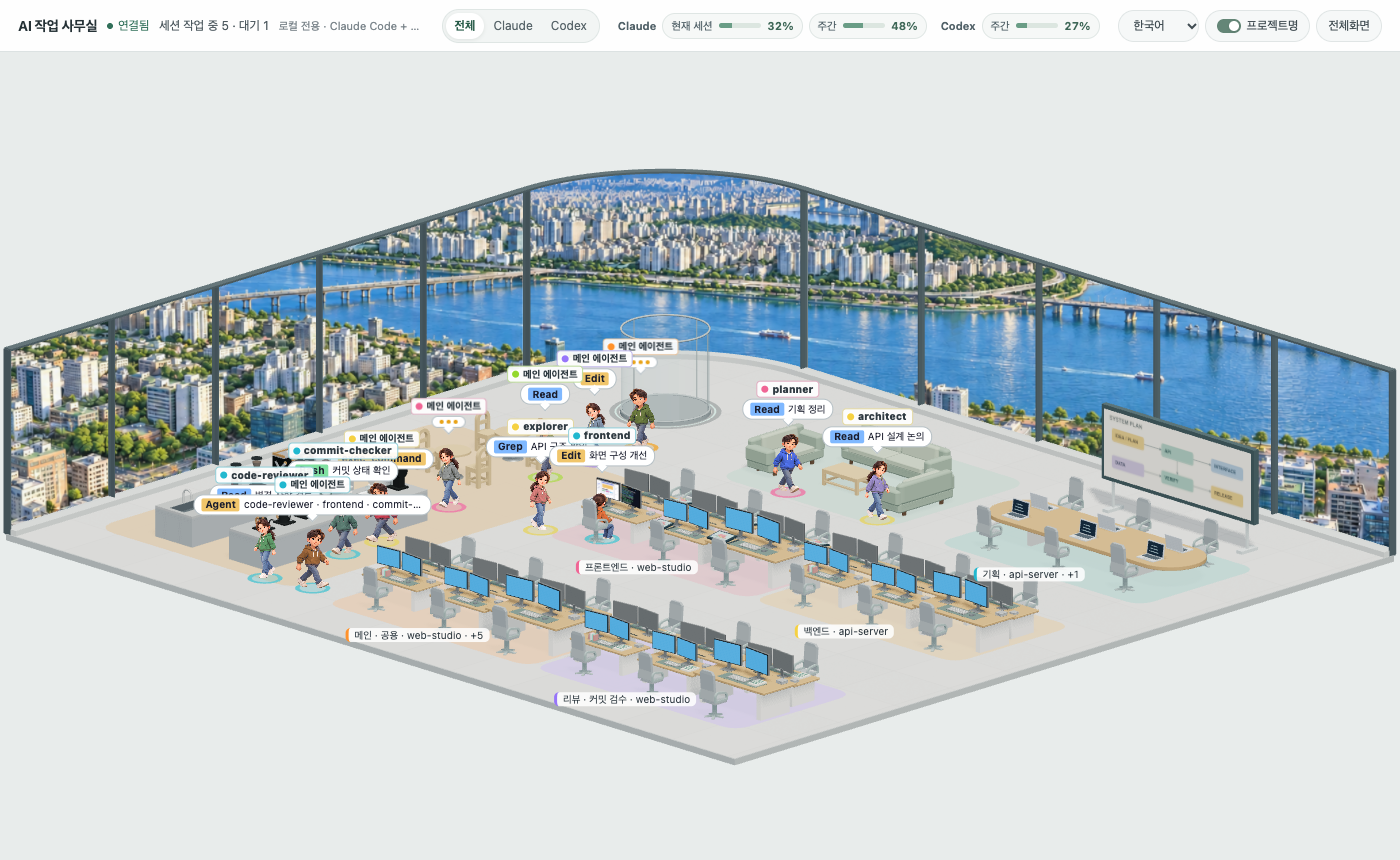
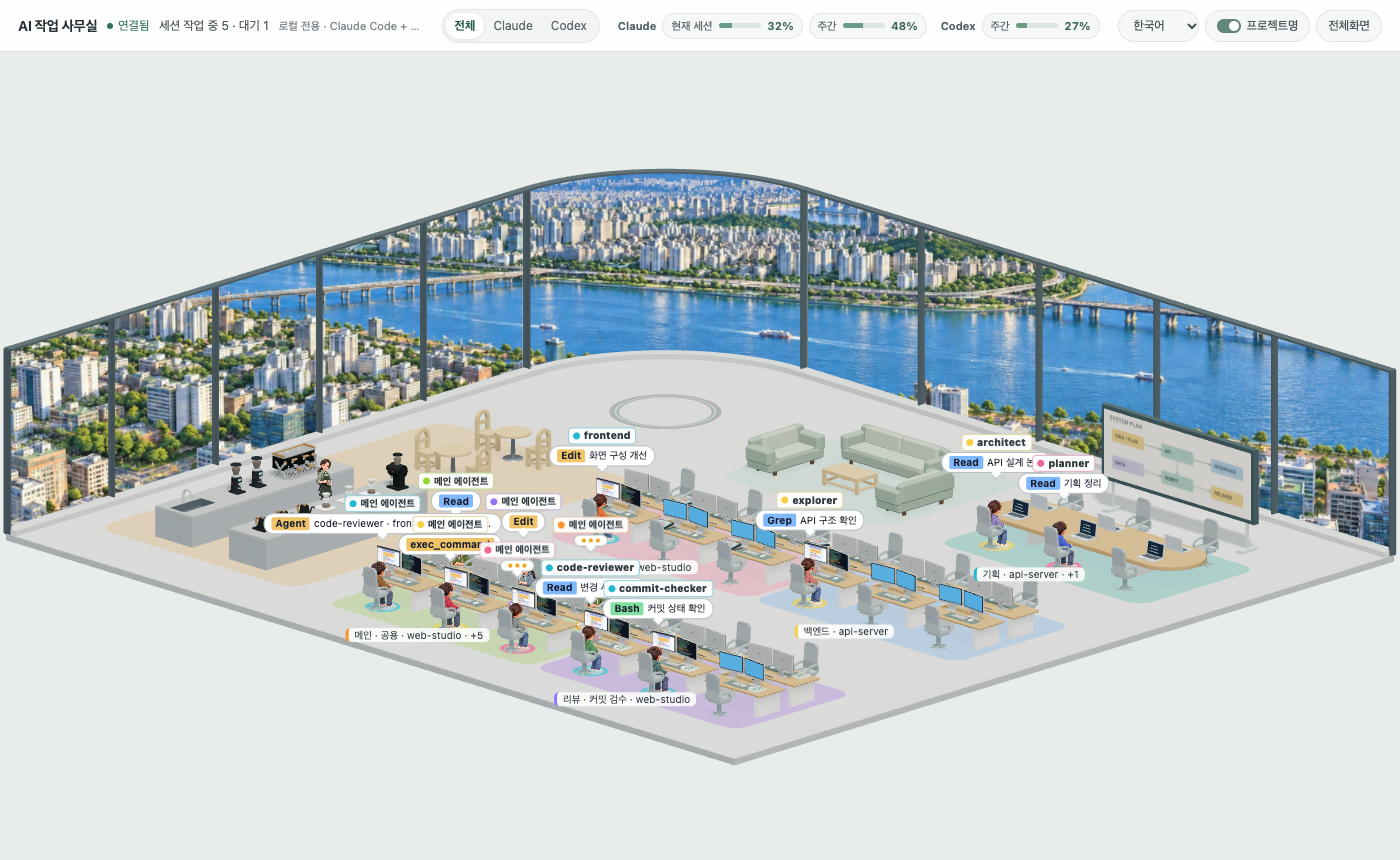
Update office workstations and area colors

Changed region(s): [[0.1229, 0.3628, 0.7986, 0.8465], [0.4914, 0.3628, 0.5221, 0.393]]

diff --git a/src/agent-office/scene.ts b/src/agent-office/scene.ts
@@ -18,6 +18,7 @@ import {
   Color,
   DirectionalLight,
   DoubleSide,
+  ExtrudeGeometry,
   Group,
   HemisphereLight,
   InstancedMesh,
@@ -42,6 +43,7 @@ import {
   Scene,
   Shape,
   ShapeGeometry,
+  SphereGeometry,
   Texture,
   TorusGeometry,
   TubeGeometry,
@@ -124,11 +126,11 @@ type ClipName = 'idle' | 'walk' | 'sit' | 'work' | 'read' | 'wait' | 'coffee'
 
 const READ_TOOLS = new Set(['Read', 'Grep', 'Glob', 'NotebookRead', 'LS'])
 /** 모니터 몸체는 검정 대신 밝은 은색. 빈자리 화면은 모든 자리가 같은 파란색으로 켜져 있다 */
-const MONITOR_BODY = '#c9d1d6'
+const MONITOR_BODY = '#e7e9e9'
 const SCREEN_IDLE_COLOR = '#2f8fe0'
 const SCREEN_IDLE_GLOW = 0.55
 /** Studio Display 스타일 화면의 로컬 좌표. 본체 앞(+z)에 콘텐츠를 붙인다. */
-const SCREEN_FACE = { x0: -0.1895, x1: 0.1895, yBottom: 0.095, zBottom: 0.018, yTop: 0.3264, zTop: 0.018 }
+const SCREEN_FACE = { x0: -0.1895, x1: 0.1895, yBottom: 0.121, zBottom: 0.018, yTop: 0.3264, zTop: 0.018 }
 /** 터미널 텍스처: 한 줄 높이(px)·줄 수. 자리마다 보이는 창을 아래로 옮겨 스크롤한다 */
 const TERM_LINE = 14
 const TERM_LINES = 60
@@ -151,7 +153,7 @@ const NO_SHADOW = new Set(['rugRound', 'rugDoormat'])
 const SOFA_COLOR = new Color('#9cae9f')
 /** 천 소파라 거의 무광 */
 const SOFA_ROUGHNESS = 0.85
-const TEAM_FLOORS = ['#c3d8d4', '#e1d3bc', '#dfc9cd', '#cedcc3', '#d4cde5', '#e5cfba']
+const TEAM_FLOORS = ['#aaceca', '#b8cde0', '#e4bdc5', '#cedcc3', '#c8b8dc', '#c6d6ae']
 /** 램프 불빛 색과 한밤 세기 */
 const LAMP_GLOW = '#ffbf73'
 const LAMP_POWER = 2.2
@@ -814,10 +816,11 @@ export class OfficeScene {
   private chairMats = new Map<number, MeshStandardMaterial>()
   /** 자동 배정한 종류별 옷 색(clothesColorOf) */
   private typeColors = new Map<string, string>()
-  /** 모니터 몸체 재질. 모든 모니터가 같은 색이라 하나를 나눠 쓴다 */
+  /** 일체형 컴퓨터는 실버 본체 재질을 공유한다. */
   private monitorBody: MeshStandardMaterial | null = null
   private deskTemplate: Group | null = null
   private keyboardTemplate: Group | null = null
+  private mouseTemplate: Group | null = null
   private displayTemplates = new Map<boolean, Group>()
   private staticFurniture: Mesh[] = []
   /** 창문 안에서 이어지는 서울 강변 파노라마 */
@@ -1804,6 +1807,19 @@ export class OfficeScene {
     return root
   }
 
+  /** Low, smooth white mouse with a thin silver underside. */
+  private modernMouse() {
+    const group = new Group()
+    const shell = new Mesh(new SphereGeometry(1, 24, 16), new MeshStandardMaterial({ color: '#f9faf9', roughness: 0.27 }))
+    shell.scale.set(0.034, 0.012, 0.057)
+    shell.position.y = 0.014
+    const base = new Mesh(new SphereGeometry(1, 24, 12), new MeshStandardMaterial({ color: '#cdd3d4', metalness: 0.35, roughness: 0.45 }))
+    base.scale.set(0.031, 0.003, 0.052)
+    base.position.y = 0.003
+    group.add(base, shell)
+    return group
+  }
+
   private cafeRoundTable() {
     const group = new Group()
     const oak = new MeshStandardMaterial({ color: '#d8bc91', roughness: 0.65 })
@@ -1820,7 +1836,7 @@ export class OfficeScene {
 
   private studioDisplay() {
     const group = new Group()
-    const aluminum = new MeshStandardMaterial({ name: 'metalDark', color: MONITOR_BODY, metalness: 0.65, roughness: 0.28 })
+    const aluminum = new MeshStandardMaterial({ name: 'metalDark', color: MONITOR_BODY, metalness: 0.35, roughness: 0.38 })
     const bezel = new MeshStandardMaterial({ color: '#23282c', roughness: 0.4 })
     const idle = new MeshStandardMaterial({ name: 'metal', color: SCREEN_IDLE_COLOR })
     const box = (w: number, h: number, d: number, mat: Material, x: number, y: number, z: number) => {
@@ -1828,19 +1844,38 @@ export class OfficeScene {
       mesh.position.set(x, y, z)
       group.add(mesh)
     }
-    // A uniform black bezel replaces the all-in-one's deep silver chin.
+    // Silver all-in-one body with a slim lower chin.
     box(0.399, 0.251, 0.022, aluminum, 0, 0.2107, 0)
-    box(0.393, 0.245, 0.004, bezel, 0, 0.2107, 0.014)
-    // A slim aluminum support slopes gently into a low, rounded rectangular foot.
-    const support = new Mesh(new RoundedBoxGeometry(0.052, 0.105, 0.009, 3, 0.004), aluminum)
-    support.position.set(0, 0.057, -0.018)
-    support.rotation.x = -0.12
+    box(0.393, 0.219, 0.004, bezel, 0, 0.2237, 0.014)
+    // Subtle rear panel, centered emblem and stand hinge add depth from behind.
+    const back = new MeshStandardMaterial({ color: '#dce0e1', metalness: 0.3, roughness: 0.42 })
+    const detail = new MeshStandardMaterial({ color: '#afb8bb', metalness: 0.45, roughness: 0.35 })
+    box(0.384, 0.236, 0.002, back, 0, 0.2107, -0.012)
+    const emblem = new Mesh(new CircleGeometry(0.012, 24), detail)
+    emblem.position.set(0, 0.22, -0.0135)
+    emblem.rotation.y = Math.PI
+    group.add(emblem)
+    const hinge = new Mesh(new RoundedBoxGeometry(0.075, 0.022, 0.008, 3, 0.003), detail)
+    hinge.position.set(0, 0.109, -0.018)
+    group.add(hinge)
+    // The all-in-one stand widens toward its low, flat aluminum base.
+    const standShape = new Shape()
+    standShape.moveTo(-0.06, 0)
+    standShape.lineTo(0.06, 0)
+    standShape.lineTo(0.038, 0.12)
+    standShape.lineTo(-0.038, 0.12)
+    standShape.closePath()
+    const support = new Mesh(new ExtrudeGeometry(standShape, {
+      depth: 0.008, bevelEnabled: true, bevelSize: 0.002, bevelThickness: 0.002, bevelSegments: 2,
+    }), aluminum)
+    support.position.set(0, 0.006, -0.028)
+    support.rotation.x = -0.14
     group.add(support)
-    const foot = new Mesh(new RoundedBoxGeometry(0.15, 0.006, 0.125, 3, 0.003), aluminum)
-    foot.position.set(0, 0.003, 0.004)
+    const foot = new Mesh(new RoundedBoxGeometry(0.16, 0.006, 0.105, 3, 0.003), aluminum)
+    foot.position.set(0, 0.003, 0)
     group.add(foot)
-    const face = new PlaneGeometry(0.379, 0.2314)
-    face.translate(0, 0.2107, 0.018)
+    const face = new PlaneGeometry(0.379, 0.2054)
+    face.translate(0, 0.2237, 0.018)
     group.add(new Mesh(face, idle))
     const camera = new Mesh(new CylinderGeometry(0.002, 0.002, 0.001, 8), new MeshStandardMaterial({ color: '#3b4751' }))
     camera.rotation.x = Math.PI / 2
@@ -1891,6 +1926,7 @@ export class OfficeScene {
       : it.model === 'loungeSofa' || it.model === 'loungeChair' ? this.loungeFurniture(it.model === 'loungeChair')
       : it.model === 'tableRound' ? this.cafeRoundTable()
       : it.model === 'computerKeyboard' ? (this.keyboardTemplate ??= this.modernKeyboard()).clone(true)
+      : it.model === 'computerMouse' ? (this.mouseTemplate ??= this.modernMouse()).clone(true)
       : it.model === 'computerScreen' ? this.displayTemplate().clone(true)
       : m.root.clone(true)
     obj.scale.set(it.sx ?? s, it.sy ?? s, it.sz ?? s)
@@ -1909,7 +1945,7 @@ export class OfficeScene {
       mesh.castShadow = shadow
       mesh.receiveShadow = true
     })
-    if (['kitchenCabinet', 'kitchenSink', 'tableCoffee', 'sideTable', 'chairRounded', 'computerMouse', 'pottedPlant'].includes(it.model)) {
+    if (['kitchenCabinet', 'kitchenSink', 'tableCoffee', 'sideTable', 'chairRounded', 'pottedPlant'].includes(it.model)) {
       obj.traverse((o) => {
         const mesh = o as Mesh
         if (!mesh.isMesh) return
@@ -1933,7 +1969,7 @@ export class OfficeScene {
     if (it.model === 'coatRackStanding') this.hangClothes(obj)
     if (it.model === 'rugDoormat') this.dressDoormat(obj)
     if (it.model.startsWith('lamp')) this.wireLamp(obj, m.size.y)
-    if (it.model === 'desk' || it.model === 'computerScreen' || it.model === 'computerKeyboard') {
+    if (it.model === 'desk' || it.model === 'computerScreen' || it.model === 'computerKeyboard' || it.model === 'computerMouse') {
       obj.traverse((o) => {
         if ((o as Mesh).isMesh) this.staticFurniture.push(o as Mesh)
       })
@@ -2092,7 +2128,7 @@ export class OfficeScene {
     })
   }
 
-  /** 은색 본체와 유휴 화면을 공유하고, 작업 중인 자리에는 디자인·터미널 콘텐츠를 표시한다. */
+  /** 실버 본체와 유휴 화면을 공유하고 작업 화면을 표시한다. */
   private bindScreen(seatId: string, kind: 'design' | 'terminal', obj: Object3D) {
     const aniso = this.renderer.capabilities.getMaxAnisotropy()
     if (!this.screenGeo) {
@@ -2263,7 +2299,7 @@ export class OfficeScene {
       else if (mat) disposeMaterial(mat)
     })
     // Template materials can have been replaced by the shared screen materials.
-    for (const template of [this.deskTemplate, this.keyboardTemplate, ...this.displayTemplates.values()]) {
+    for (const template of [this.deskTemplate, this.keyboardTemplate, this.mouseTemplate, ...this.displayTemplates.values()]) {
       template?.traverse((o) => {
         const mat = (o as Mesh).material
         if (Array.isArray(mat)) mat.forEach(disposeMaterial)
@@ -2272,6 +2308,7 @@ export class OfficeScene {
     }
     this.deskTemplate = null
     this.keyboardTemplate = null
+    this.mouseTemplate = null
     this.displayTemplates.clear()
     for (const d of this.frameDisposables) d.dispose()
     this.frameDisposables = []

diff --git a/src/agent-office/layout.ts b/src/agent-office/layout.ts
@@ -227,7 +227,6 @@ export const cellCenter = (c: number) => (c + 0.5) * G
 export interface OfficeLayout {
   items: Item[]
   seats: Seat[]
-  miniComputers: { seatId: string; x: number; z: number; y: number; yaw: number; scale: number }[]
   pois: Poi[]
   /** 팀 구역에 자리가 모자란 인원이 서 있을 자리(구역별) */
   spots: { x: number; z: number }[][]
@@ -410,13 +409,12 @@ function seatPlacement(zone: number, local: number) {
   const dz = o.z + ROW_Z[row]
   if (zone === 0) return { dx, dz: o.z + 0.75, lead, sx: dx, sz: o.z + (row === 0 ? -0.1 : 1.6), yaw: row === 0 ? 0 : Math.PI }
   const yaw = row === 0 ? 0 : Math.PI
-  return { dx, dz, lead, sx: dx, sz: dz - Math.cos(yaw) * (lead ? 0.64 : 0.54), yaw }
+  return { dx, dz, lead, sx: dx, sz: dz - Math.cos(yaw) * 0.54, yaw }
 }
 
 function build(): OfficeLayout {
   const items: Item[] = []
   const seats: Seat[] = []
-  const miniComputers: OfficeLayout['miniComputers'] = []
   const blocked = new Set<string>()
 
   const blockRect = (cx: number, cz: number, w: number, d: number) => {
@@ -457,9 +455,9 @@ function build(): OfficeLayout {
     for (let local = 0; local < (z === 3 ? 0 : 6); local++) {
       const p = seatPlacement(z, local)
       const id = `Z${z}-${local}`
-      const s = p.lead ? 1.28 : 1
+      const s = 1
       if (z !== 0) put({ model: 'desk', x: p.dx, z: p.dz, s, sx: s * 1.65, rot: p.yaw === 0 ? Math.PI : 0, zone: z })
-      const chairScale = p.lead ? 0.88 : 0.8
+      const chairScale = 0.8
       const chairHeight = chairScale * CHAIR_HEIGHT_RATIO
       put({
         model: 'chairDesk',
@@ -484,7 +482,7 @@ function build(): OfficeLayout {
           z: p.dz + Math.cos(p.yaw) * 0.07 * s,
           y: top,
           rot: (p.yaw === 0 ? Math.PI : 0) - side * 0.10,
-          s: p.lead ? 1.35 : 1.15,
+          s: 1.15,
           screenOf: id,
           // The seated worker sees the webpage on the left and code on the right.
           screenKind: side * Math.cos(p.yaw) > 0 ? 'design' : 'terminal',
@@ -492,10 +490,6 @@ function build(): OfficeLayout {
       }
       if (z !== 0) put({ model: 'computerKeyboard', x: p.dx, z: p.dz - Math.cos(p.yaw) * 0.1 * s, y: top, s, rot: p.yaw })
       if (z !== 0) put({ model: 'computerMouse', x: p.dx - Math.cos(p.yaw) * 0.24 * s, z: p.dz - Math.cos(p.yaw) * 0.1 * s, y: top, s, rot: p.yaw })
-      if (z !== 0) miniComputers.push({
-        seatId: id, x: p.dx + 0.48 * s, z: p.dz + Math.cos(p.yaw) * 0.15 * s,
-        y: top, yaw: p.yaw, scale: s,
-      })
       // 장식은 모니터와 겹치지 않게 책상 앞 왼쪽 모서리에 둔다
       if (z === 0 || z === 2) {
         // Meeting stationery and design tablets are supplied by roleFurniture.
@@ -667,7 +661,6 @@ function build(): OfficeLayout {
   return {
     items,
     seats,
-    miniComputers,
     pois,
     spots,
     blocked,

diff --git a/src/agent-office/roleFurniture.ts b/src/agent-office/roleFurniture.ts
@@ -1,5 +1,4 @@
-import { BoxGeometry, CanvasTexture, CylinderGeometry, ExtrudeGeometry, Shape, Group, Mesh, MeshStandardMaterial, PlaneGeometry, SRGBColorSpace, type Scene } from 'three'
-import { RoundedBoxGeometry } from 'three/examples/jsm/geometries/RoundedBoxGeometry.js'
+import { BoxGeometry, CanvasTexture, ExtrudeGeometry, Shape, Group, Mesh, MeshStandardMaterial, PlaneGeometry, SRGBColorSpace, type Scene } from 'three'
 import { ZONE_ORIGIN, LAYOUT } from './layout'
 import { instanceStaticMeshes } from './staticMeshes'
 
@@ -109,28 +108,6 @@ export function addRoleFurniture(scene: Scene) {
       laptop.position.set(meeting.x + dx, 0.39, meeting.z + 0.75 + side * 0.32)
       root.add(laptop)
     }
-  }
-  // Exactly one compact, low silver computer at each desktop workstation.
-  const desktopMiniGeo = new RoundedBoxGeometry(0.105, 0.041, 0.105, 4, 0.005)
-  const desktopMiniMat = new MeshStandardMaterial({ color: '#d9dee0', metalness: 0.42, roughness: 0.48 })
-  const desktopMiniFootGeo = new CylinderGeometry(0.035, 0.035, 0.003, 24)
-  const desktopMiniFootMat = mat('#42494b')
-  for (const pc of LAYOUT.miniComputers) {
-    const unit = new Group()
-    unit.position.set(pc.x, pc.y, pc.z)
-    unit.rotation.y = pc.yaw
-    unit.scale.setScalar(pc.scale)
-    const chassis = new Mesh(desktopMiniGeo, desktopMiniMat)
-    chassis.position.y = 0.0235
-    chassis.castShadow = true
-    chassis.receiveShadow = true
-    unit.add(chassis)
-    const foot = new Mesh(desktopMiniFootGeo, desktopMiniFootMat)
-    foot.position.y = 0.0015
-    unit.add(foot)
-    for (const x of [-0.022, -0.006]) unit.add(box(x, 0.021, -0.053, 0.009, 0.003, 0.001, '#50595b'))
-    unit.add(box(0.034, 0.018, -0.053, 0.002, 0.002, 0.001, '#e7f2ec'))
-    root.add(unit)
   }
   for (const seat of LAYOUT.seats.filter(s => s.zone === 2 || s.zone === 4)) {
     const desk = LAYOUT.items.find(i => i.model === 'desk' && i.zone === seat.zone && Math.abs(i.x - seat.x) < 0.01 && Math.abs(i.z - seat.z) < 0.65)

diff --git a/src/agent-office/__tests__/layout.spec.ts b/src/agent-office/__tests__/layout.spec.ts
@@ -99,20 +99,6 @@ describe('사무실 배치', () => {
     }
   })
 
-  it('places one compact computer per desktop and none at the meeting table', () => {
-    const desks = LAYOUT.seats.filter(seat => seat.zone !== 0)
-    expect(LAYOUT.miniComputers).toHaveLength(desks.length)
-    expect(new Set(LAYOUT.miniComputers.map(pc => pc.seatId)).size).toBe(desks.length)
-    for (const seat of desks) {
-      const pc = LAYOUT.miniComputers.find(item => item.seatId === seat.id)!
-      expect(pc).toBeDefined()
-      const desk = LAYOUT.items.filter(item => item.model === 'desk' && item.zone === seat.zone && Math.abs(item.x - seat.cx) < 0.01)
-        .sort((a, b) => Math.abs(a.z - seat.cz) - Math.abs(b.z - seat.cz))[0]
-      expect(Math.abs(pc.x - desk.x) + 0.09 * pc.scale).toBeLessThan(0.73 * (desk.sx ?? 1) / 2)
-      expect(pc.y).toBeCloseTo(0.38 * (desk.s ?? 1))
-    }
-  })
-
   it('모든 자리·구경 지점·대기 자리까지 문에서 길이 이어진다', () => {
     const targets = [
       ...LAYOUT.seats.map((s) => ({ name: s.id, x: s.cx, z: s.cz })),
@@ -168,6 +154,7 @@ describe('사무실 배치', () => {
       const desks = LAYOUT.items.filter((i) => i.model === 'desk' && i.zone === z)
       if (z === 0 || z === 3) { expect(desks).toHaveLength(0); continue }
       expect(desks).toHaveLength(6)
+      expect(new Set(desks.map((desk) => [desk.s, desk.sx, desk.sz].join(','))).size).toBe(1)
       expect(new Set(desks.map((d) => d.z.toFixed(2))).size).toBe(2)
       expect(new Set(desks.map((d) => d.rot ?? 0)).size).toBe(2)
     }

diff --git a/README.md b/README.md
@@ -15,7 +15,7 @@
 ![Platform](https://img.shields.io/badge/macOS%20%7C%20Linux%20%7C%20Windows-lightgrey)
 ![License: MIT](https://img.shields.io/badge/License-MIT-yellow)
 
-<img src="docs/screenshot.png?v=office-compact-20261027" alt="Agent Office 테스트 화면: 서울 배경의 사무실에 세션 6개와 서브에이전트 6개가 표시되어 있다" width="900">
+<img src="docs/screenshot.png?v=office-imac-20261027" alt="Agent Office 테스트 화면: 서울 배경의 사무실에 세션 6개와 서브에이전트 6개가 표시되어 있다" width="900">
 
 <p><sub>테스트 데이터로 구성한 화면입니다. 세션 6개와 서브에이전트 6개를 표시하며 실제 대화나 프로젝트 정보는 포함하지 않습니다.</sub></p>
 
@@ -89,7 +89,7 @@ npm run dev
 - 뒤쪽 두 면의 통유리 너머에는 고층에서 강과 다리, 양쪽 강변 도심을 내려다보는 파노라마가 이어집니다. 두 창면은 반지름 3의 곡면 유리로 이어지며 중앙 기둥 없이 강변 풍경이 이어집니다. 특정 랜드마크를 강조하지 않고 강·다리·건물이 균형 있게 보이는 구도를 유지합니다. 두께 있는 창틀과 안쪽 창턱이 실내 경계를 만듭니다. `?hour=18&window=square`로 직각 창문과 비교할 수 있습니다. 낮·노을·밤 이미지가 컴퓨터 시계에 따라 전환되고, 노을에는 실내 햇빛도 따뜻해집니다. 양쪽 창에서 같은 투영을 사용해 건물 비율과 수평선을 유지합니다. 배경은 이미지 로딩과 시간 변경 때만 갱신합니다. 주소 뒤에 `?hour=18`을 붙이면 노을을, `?hour=22`를 붙이면 밤을 볼 수 있습니다. [노을 화면](docs/screenshot-sunset.png) · [밤 화면](docs/screenshot-night.png)
 - 책상은 모서리가 둥근 원목 상판, 흰색 판형 받침과 세이지색 데스크 매트로 구성합니다. 기존 좌석 간격과 상판 높이는 유지합니다.
 - 소파 휴게 공간을 기획 옆으로 옮기고 회전해 소파와 의자가 테이블을 마주 보게 배치했습니다. 소파와 1인용 의자는 둥근 팔걸이·낮은 등받이·분리형 쿠션·원목 발을 갖춘 세이지 그린 패브릭 디자인이며, 기존 방석 높이와 좌석 간격을 유지합니다.
-- 기획 회의실을 API 구역에 가깝게 배치하고, 업무 공간을 모아 오른쪽으로 이동했습니다. 모니터 앞면이 보이는 자리를 우선 배정합니다. 책상마다 얇은 실버 키보드와 맥 미니 한 대, 실버 모니터 받침을 두고 의자를 높였습니다. 기획 구역은 노트북을 사용하며, 리뷰 구역은 파티션 없이 여섯 자리를 사용합니다. 커피바는 창에서 떨어뜨려 화면 왼쪽에 가로로 길게 배치하고 옆 테이블까지 카페트를 넓히고 머신과 그라인더를 여유 있게 배치했으며 바리스타가 커피를 준비하며 작업대 위에 주전자 세 개를 둡니다. 스탠드와 화분은 배치하지 않습니다.
+- 기획 회의실을 API 구역에 가깝게 배치하고, 업무 공간을 모아 오른쪽으로 이동했습니다. 모니터 앞면이 보이는 자리를 우선 배정합니다. 책상마다 얇은 실버 키보드, 흰색 마우스와 아이맥 스타일 일체형 화면을 두고 의자를 높였습니다. 기획 구역은 노트북을 사용하며, 리뷰 구역은 파티션 없이 여섯 자리를 사용합니다. 커피바는 창에서 떨어뜨려 화면 왼쪽에 가로로 길게 배치하고 옆 테이블까지 카페트를 넓히고 머신과 그라인더를 여유 있게 배치했으며 바리스타가 커피를 준비하며 작업대 위에 주전자 세 개를 둡니다. 스탠드와 화분은 배치하지 않습니다.
 - 기본 캐릭터는 승인된 시안을 바탕으로 생성한 **2D 스프라이트**입니다. 방향별 이미지, 네 단계의 걷기와 두 장의 타이핑 프레임, 앉기·커피 모습을 사용합니다. `AGENT_LOOKS`의 `cap: true`로 모자를 선택합니다. `glasses: true`는 기존 3D 캐릭터로 표시하며, `CHARACTER_RENDER_STYLE`을 `'3d'`로 바꾸면 전체 3D 모델을 복원합니다. [2D 실제 화면 확대](docs/screenshot-sprite-closeup.png) · [모자 착용 화면](docs/screenshot-sprite-cap.png)
 - 후드티·청바지·스니커즈의 [남자 개발자](docs/concepts/developer-male.png)와 [여자 개발자·모자 옵션](docs/concepts/developer-female-cap-option.png)은 캐릭터 디자인 기준으로 사용한 생성 이미지입니다. 2D 스프라이트와 이전 3D 모델은 각각 이 이미지를 바탕으로 제작했습니다.
 - 이전 3D 모델의 애니메이션 포함 GLB: [남자](docs/models/developer-male.glb) · [여자](docs/models/developer-female.glb) · [남자 모자](docs/models/developer-male-cap.glb) · [여자 모자](docs/models/developer-female-cap.glb). 파일을 다시 로드해 7개 동작과 관절 메시 4개가 유지되는지 검증했습니다.

diff --git a/README.ja.md b/README.ja.md
@@ -15,7 +15,7 @@
 ![Platform](https://img.shields.io/badge/macOS%20%7C%20Linux%20%7C%20Windows-lightgrey)
 ![License: MIT](https://img.shields.io/badge/License-MIT-yellow)
 
-<img src="docs/screenshot.png?v=office-compact-20261027" alt="Agent Office のテスト画面: ソウルを望むオフィスに 6 セッションと 6 体のサブエージェントを表示" width="900">
+<img src="docs/screenshot.png?v=office-imac-20261027" alt="Agent Office のテスト画面: ソウルを望むオフィスに 6 セッションと 6 体のサブエージェントを表示" width="900">
 
 <p><sub>テストデータで構成した画面です。6 セッションと 6 体のサブエージェントを表示し、実際の会話やプロジェクト情報は含みません。</sub></p>
 
@@ -89,7 +89,7 @@ npm run dev
 - 背面の二面の窓には、高層階から川と橋、両岸の街並みを見下ろす景色が広がります。二面の窓は半径 3 の曲面ガラスでつながり、中央の柱なしで川沿いの景色がつながります。特定のランドマークを強調せず、川・橋・建物のバランスを保ちます。`?hour=18&window=square` で直角の窓と比較できます。厚みのある窓枠と内側の窓台が室内の境界を作ります。昼・夕焼け・夜の画像が時刻に合わせて切り替わり、夕焼け時には室内の光も暖かくなります。共通の投影で画像の比率と水平線を保ち、画像読み込み時と時刻変更時だけ背景を更新します。`?hour=18` で夕焼け、`?hour=22` で夜を表示できます。[夕焼け](docs/screenshot-sunset.png) · [夜](docs/screenshot-night.png)
 - デスクは丸みのあるオーク天板、白い板状の脚、セージ色のマットを組み合わせ、座席間隔と天板の高さを維持しています。
 - 休憩スペースを企画の隣へ移して回転し、ソファと椅子がテーブルを囲みます。ソファと椅子は丸い肘掛け、低い背もたれ、独立クッション、木製脚のセージグリーンの布張りで、座面の高さと間隔を維持します。
-- 企画会議室をAPI区画に近づけ、作業区画をまとめて少し右へ移し、モニター正面が見える席から割り当てます。各デスクに薄い銀色のキーボード、モニタースタンド、Mac mini風PCを1台置き、企画にはノートPC、レビュー区画は仕切りのない6席です。カフェのバーは画面左に寄せ、横に広く奥行きを浅くし、テーブルまでカフェのラグを広げ、間隔を空け、マシン同士にも余裕を持たせました。バリスタはコーヒーを準備し、カウンターにケトルを3台置きます。スタンドライトと鉢植えは置いていません。
+- 企画会議室をAPI区画に近づけ、作業区画をまとめて少し右へ移し、モニター正面が見える席から割り当てます。各デスクに薄い銀色のキーボード、白いマウスとiMac風の一体型画面置き、企画にはノートPC、レビュー区画は仕切りのない6席です。カフェのバーは画面左に寄せ、横に広く奥行きを浅くし、テーブルまでカフェのラグを広げ、間隔を空け、マシン同士にも余裕を持たせました。バリスタはコーヒーを準備し、カウンターにケトルを3台置きます。スタンドライトと鉢植えは置いていません。
 - 既定は承認済みのイメージを基に生成した **2Dスプライト**です。方向別画像、歩行4段階・タイピング2フレーム、着席・コーヒー姿を使用します。`AGENT_LOOKS` の `cap: true` で帽子を選択。`glasses: true` は従来の3Dキャラクターを使用し、`CHARACTER_RENDER_STYLE` を `'3d'` にすると全員を3Dに戻せます。[2D拡大](docs/screenshot-sprite-closeup.png) · [帽子の表示](docs/screenshot-sprite-cap.png)
 - 休憩スペースのラグ、テーブル、椅子と着席位置も一緒に移動します。
 - 会議テーブルにはノートPCを置きます。作業中のデスクは着席者の左に明るいWeb画面、右にターミナルを表示します。エレベーターは滑らかに動き、到着したキャラクターは順番に降ります。

diff --git a/README.en.md b/README.en.md
@@ -15,7 +15,7 @@ The main agent types at its desk, delegated subagents work at the desks next to 
 ![Platform](https://img.shields.io/badge/macOS%20%7C%20Linux%20%7C%20Windows-lightgrey)
 ![License: MIT](https://img.shields.io/badge/License-MIT-yellow)
 
-<img src="docs/screenshot.png?v=office-compact-20261027" alt="Agent Office test scene: six sessions and six subagents in an office overlooking Seoul" width="900">
+<img src="docs/screenshot.png?v=office-imac-20261027" alt="Agent Office test scene: six sessions and six subagents in an office overlooking Seoul" width="900">
 
 <p><sub>Shown with synthetic test data: six sessions and six subagents. No real conversations or project information are included.</sub></p>
 
@@ -89,7 +89,7 @@ Open <http://localhost:5180> in your browser, then use Claude Code or Codex as u
 - The two rear glass walls share an elevated view of the river, bridges and city buildings along both banks. A radius-3 curved glass corner joins the two window walls without a central upright. The broad composition balances river, bridges and city buildings without emphasizing a landmark. Recessed glazing, substantial frames and interior sills define the room edge. Compare straight windows with `?hour=18&window=square`. Day, sunset and night images blend with your clock; sunset also warms the indoor sunlight. Shared projection preserves the image proportions and a continuous horizon across both windows. The texture updates only when images load or the time changes. Use `?hour=18` for sunset or `?hour=22` for night. [Sunset](docs/screenshot-sunset.png) · [Night](docs/screenshot-night.png)
 - Desks combine rounded oak tops, white slab supports and sage desk mats, keeping the existing seating clearance and desktop height.
 - The lounge has been moved beside planning and rotated, with the sofa and armchairs facing the coffee table. The sofa and armchairs use sage fabric, rounded arms, low backs, separate cushions and wooden feet, preserving seat heights and spacing.
-- The planning room sits closer to the API area, and work areas are grouped slightly to the right. Visible monitor fronts are filled first; each desktop has a slim silver keyboard, silver monitor stands and one Mac mini-style computer. Planning uses laptops, review has six open workstations, and the café has a wider, shallower bar shifted slightly left, separated tables on a wider café rug, more space between equipment, three kettles and a working barista. Stand lamps and potted plants are omitted.
+- The planning room sits closer to the API area, and work areas are grouped slightly to the right. Visible monitor fronts are filled first; each desktop has a slim silver keyboard, a white mouse and iMac-style all-in-one displays. Planning uses laptops, review has six open workstations, and the café has a wider, shallower bar shifted slightly left, separated tables on a wider café rug, more space between equipment, three kettles and a working barista. Stand lamps and potted plants are omitted.
 - The default characters are **2D sprites** generated from the approved concepts, with directional views, four walking phases and two typing frames, seated and coffee poses. Set `cap: true` in `AGENT_LOOKS` for a cap. `glasses: true` uses the existing 3D character; set `CHARACTER_RENDER_STYLE` to `'3d'` to restore all 3D models. [2D close-up](docs/screenshot-sprite-closeup.png) · [Cap in the office](docs/screenshot-sprite-cap.png)
 - The lounge rug, tables, chairs and seating destinations move together.
 - Meeting tables have laptops. Occupied desktop workstations show a light web view on the worker’s left and a terminal on the right. The elevator moves smoothly and arrivals exit one at a time.

diff --git a/README.zh.md b/README.zh.md
@@ -15,7 +15,7 @@
 ![Platform](https://img.shields.io/badge/macOS%20%7C%20Linux%20%7C%20Windows-lightgrey)
 ![License: MIT](https://img.shields.io/badge/License-MIT-yellow)
 
-<img src="docs/screenshot.png?v=office-compact-20261027" alt="Agent Office 测试画面：可眺望首尔的办公室内显示六个会话和六个子智能体" width="900">
+<img src="docs/screenshot.png?v=office-imac-20261027" alt="Agent Office 测试画面：可眺望首尔的办公室内显示六个会话和六个子智能体" width="900">
 
 <p><sub>画面使用模拟测试数据，显示六个会话和六个子智能体，不包含真实对话或项目信息。</sub></p>
 
@@ -89,7 +89,7 @@ npm run dev
 - 后方两面玻璃窗共享从高层俯瞰河流、桥梁和两岸城市建筑的全景。两面窗通过半径为 3 的曲面玻璃相连，中央没有立柱遮挡，河流、桥梁与城市建筑均衡呈现，不突出特定地标。使用 `?hour=18&window=square` 可比较直角窗。加厚窗框和内侧窗台勾勒室内边界。白天、夕阳和夜景随时钟过渡，夕阳时室内日光也会变暖。统一投影保持图像比例和连续的地平线，仅在图片加载或时间变化时更新背景。使用 `?hour=18` 查看夕阳，`?hour=22` 查看夜景。[夕阳](docs/screenshot-sunset.png) · [夜景](docs/screenshot-night.png)
 - 办公桌采用圆角橡木桌面、白色板式支撑和鼠尾草绿桌垫，保留原有座位间距与桌面高度。
 - 休息区移至规划区旁并旋转，沙发和单人椅围绕茶几。沙发和单人椅改为鼠尾草绿布艺、圆润扶手、低靠背、独立坐垫与木脚，保持座面高度及间距。
-- 企划会议区靠近API区，工作区适当靠拢并略向右移动，优先分配能看到显示器正面的座位。每个台式工位配一块薄银色键盘、银色显示器支架和一台Mac mini风格主机；企划使用笔记本，审核区开放并设有六个工位。咖啡吧略向画面左侧移动，加宽并缩短进深，扩大地毯覆盖茶桌，并在茶桌及设备之间留出间距，台面上设有三个水壶，咖啡师会准备咖啡，暂不摆放落地灯和盆栽。
+- 企划会议区靠近API区，工作区适当靠拢并略向右移动，优先分配能看到显示器正面的座位。每个台式工位配一块薄银色键盘、白色鼠标和iMac风格一体式屏幕；企划使用笔记本，审核区开放并设有六个工位。咖啡吧略向画面左侧移动，加宽并缩短进深，扩大地毯覆盖茶桌，并在茶桌及设备之间留出间距，台面上设有三个水壶，咖啡师会准备咖啡，暂不摆放落地灯和盆栽。
 - 默认使用根据确认的概念图生成的 **2D精灵**，包含不同方向、四阶段行走与两帧打字、坐姿和拿咖啡姿势。在 `AGENT_LOOKS` 设置 `cap: true` 可戴帽；`glasses: true` 使用原有3D角色。将 `CHARACTER_RENDER_STYLE` 设为 `'3d'` 可恢复全部3D模型。[2D实际画面](docs/screenshot-sprite-closeup.png) · [戴帽画面](docs/screenshot-sprite-cap.png)
 - 休息区的地毯、桌椅与坐姿位置同步移动。
 - 设计工位的键盘居中，绘图板和笔放在就坐者左侧；面对面的两排工位按各自朝向镜像布置。
